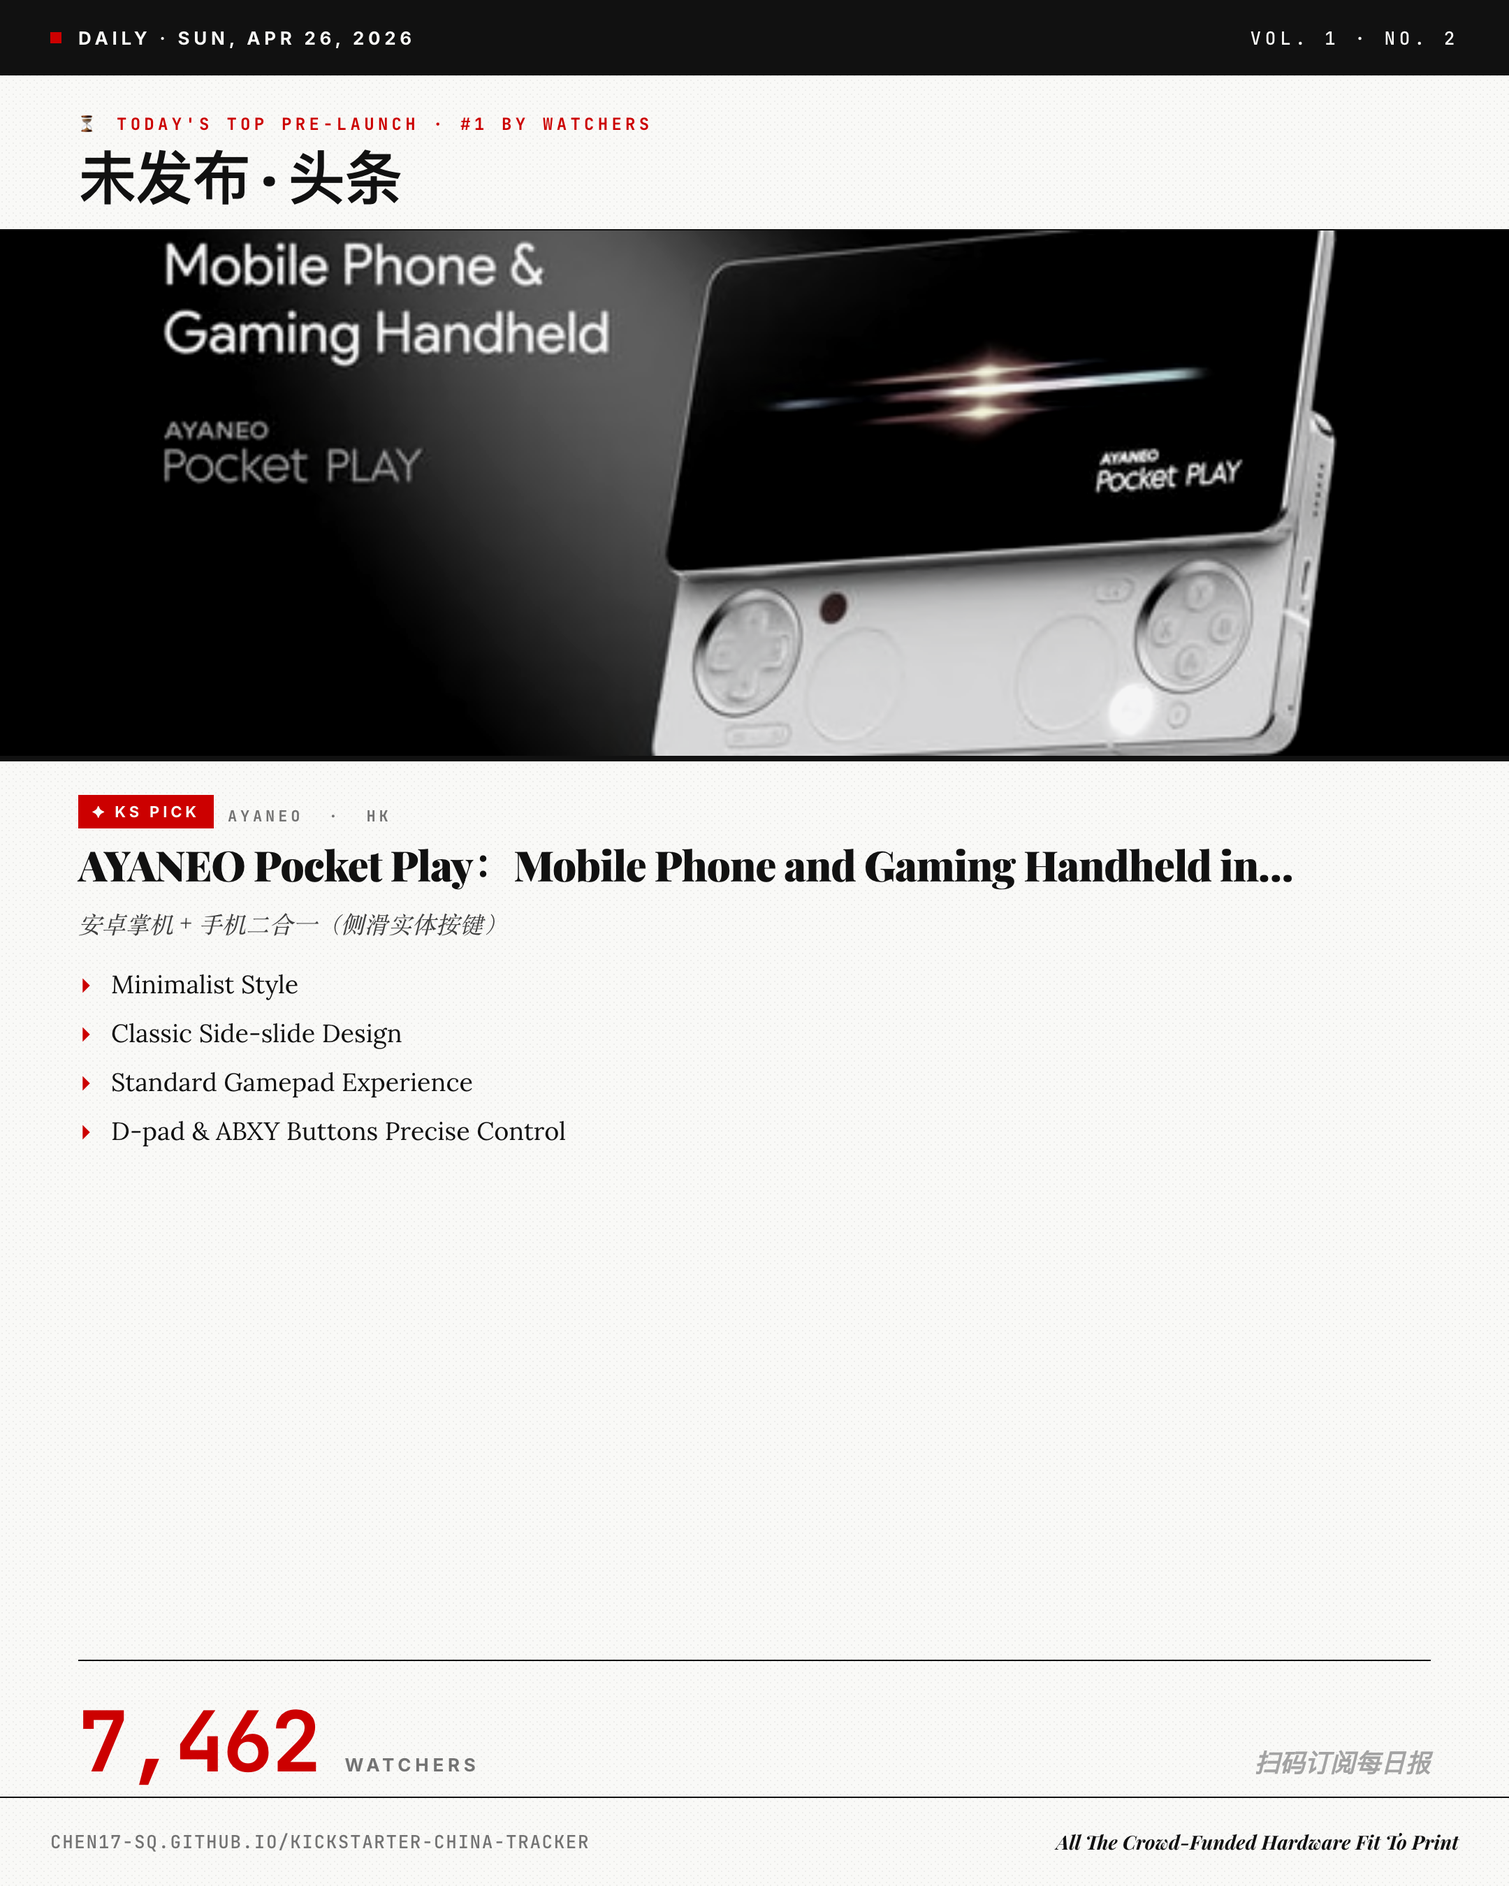
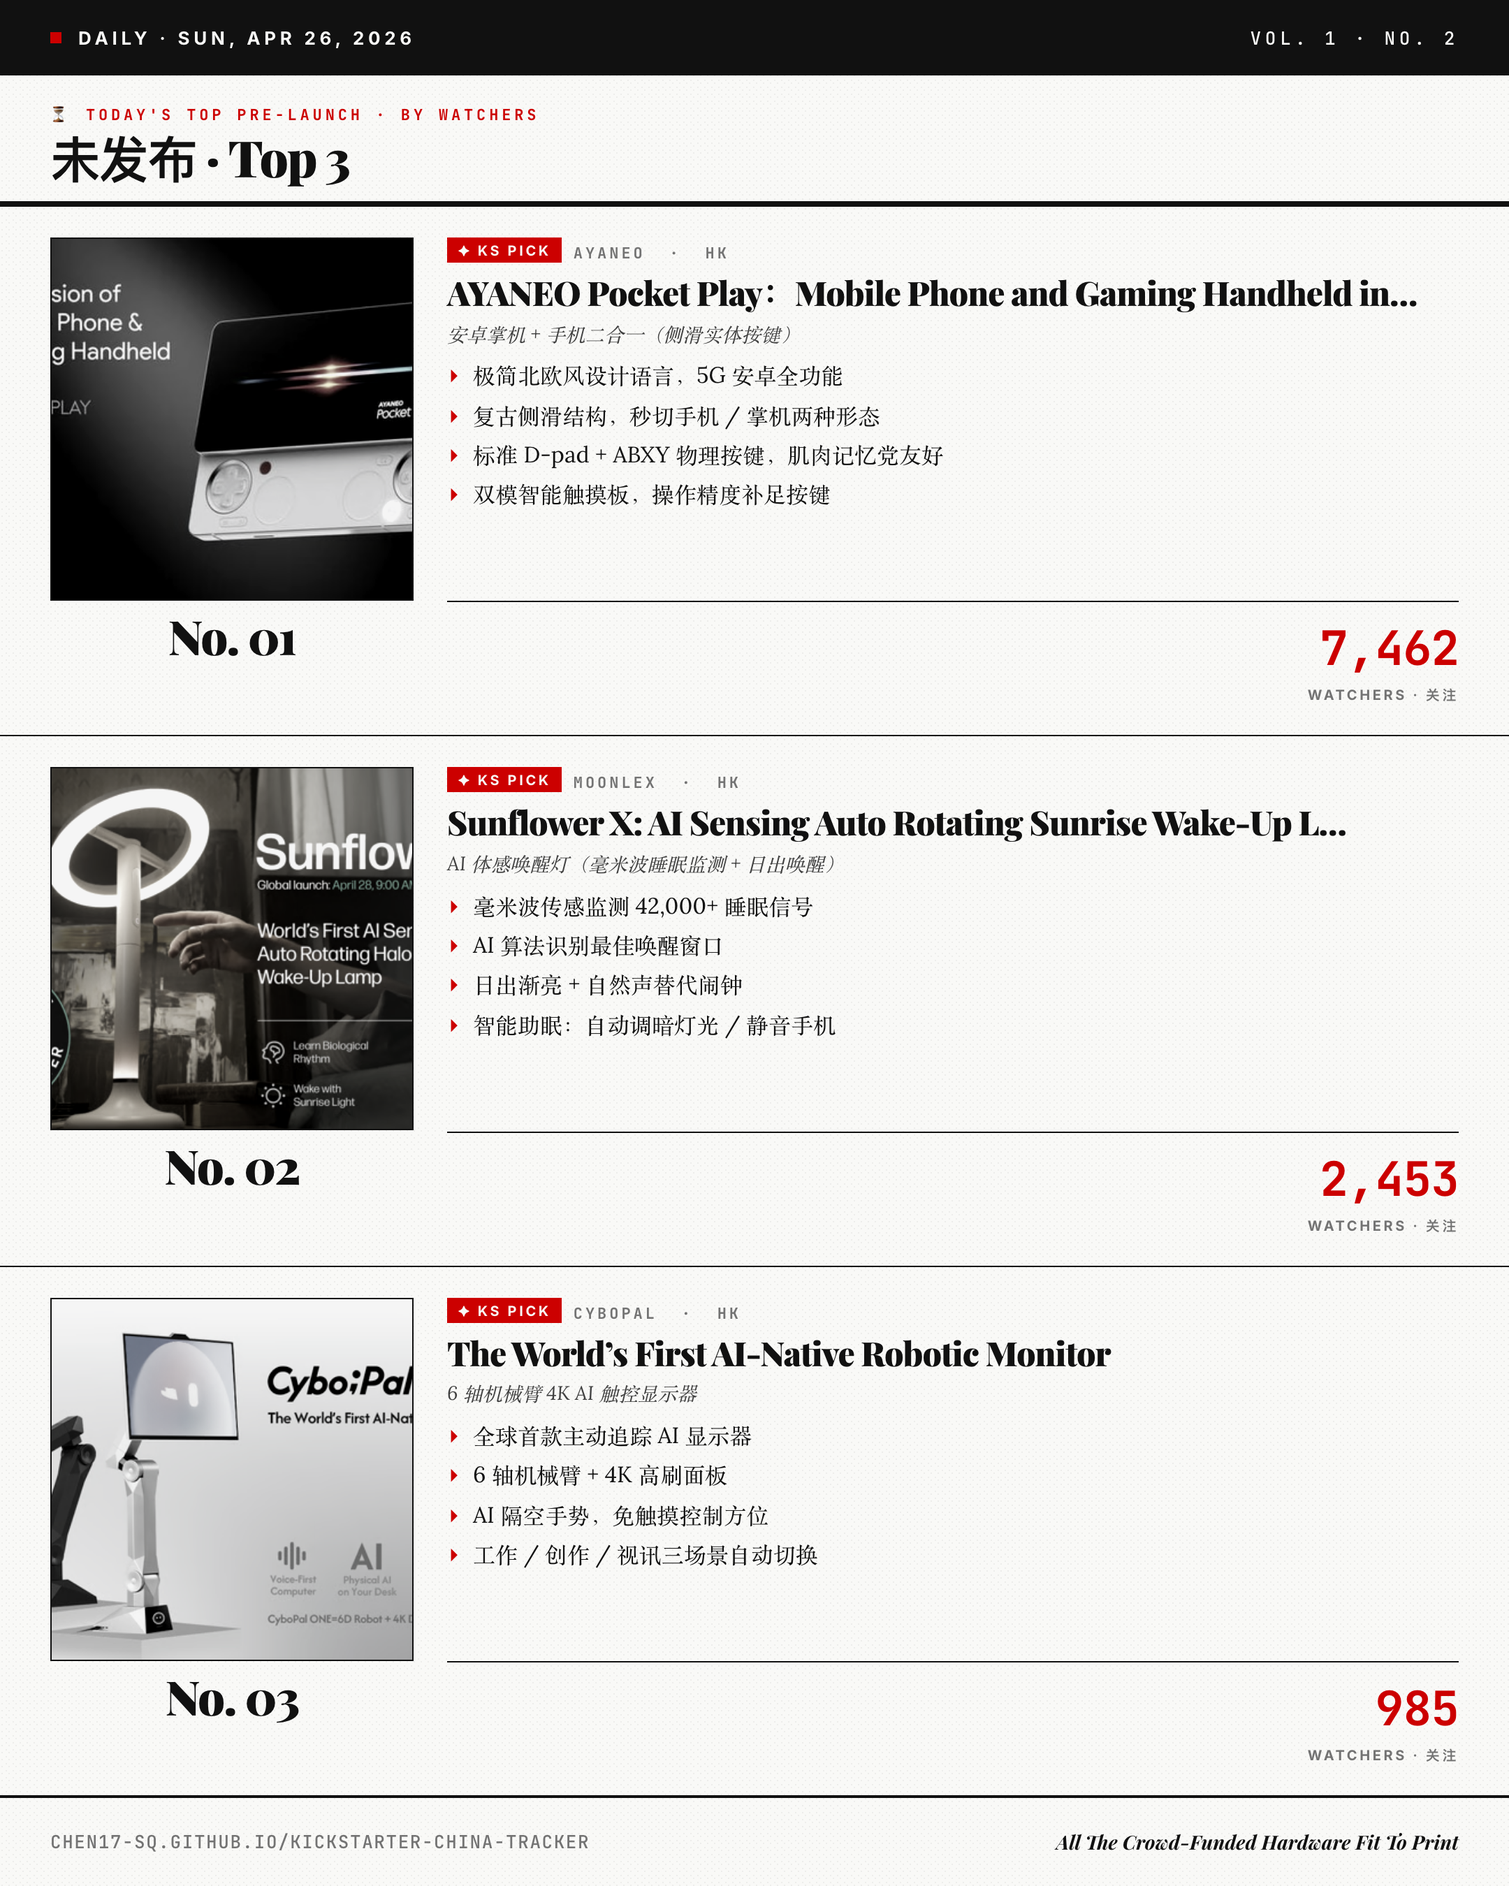
feat(social): top-3 detail slides — product image + 4 long-form Chinese highlights
User: '4 条产品亮点要长点啊，要有中文的; 然后每个赛道的 top3 都要有，同赛道可以放在一页'.

Slide 04 / 06 used to show ONE product (top-1) with image + 4 |-split
English bullets. Now each shows the full TOP 3 of its track, every product
with its own KS hero image and 4 hand-curated long-form Chinese highlights.

data/highlights_zh.json (NEW)
  12 projects × 4 highlights each = 48 curated bullets, 16-32 chars each.
  Schema: pathname → list[str]. Covers current top 3 prelaunch + top 3 live
  + 6 next-tier projects so future slug shifts still hit a curated entry.
  Examples (XGIMI):
    全球首款双虹膜光圈 4K 三色激光投影
    10,000:1 原生对比度，黑场不再发灰
    7000 ISO 流明，白天不拉窗帘也能看
    VRR 可变刷新率 + 抗 RBE，3D 游戏首选

scraper/social.py
  - load_highlights_zh() reads data/highlights_zh.json keyed by pathname.
  - slide_track_top3(d, kind) renders three product cards in one slide:
    * Header band: kicker + h2 (red for prelaunch, ink for live)
    * 3 rows of 1 product each, sized to fill remaining vertical space
  - _detail_row builds a single row:
    * Left column (260×260): KS hero image (grayscale .85 + contrast)
      with rank badge ('No. 01' Playfair 34 below)
    * Right column: brand·country mono line, Playfair 24 title,
      italic Lora blurb_zh, 4 ▸-bulleted Chinese highlights, big metric
      at bottom-right (red watcher count for prelaunch, USD for live)
  - Falls back to English |-split when a project isn't in highlights_zh
    (so newly-discovered projects degrade gracefully).
[…]

diff --git a/scraper/social.py b/scraper/social.py
@@ -32,6 +32,19 @@ from pathlib import Path
 REPO_ROOT = Path(__file__).resolve().parent.parent
 SOCIAL = REPO_ROOT / "site" / "social"
 PROJECTS = REPO_ROOT / "data" / "projects.json"
+HIGHLIGHTS_ZH = REPO_ROOT / "data" / "highlights_zh.json"
+
+
+def load_highlights_zh() -> dict[str, list[str]]:
+    """Load curated 4-bullet Chinese highlights keyed by KS pathname."""
+    if not HIGHLIGHTS_ZH.exists():
+        return {}
+    try:
+        raw = json.loads(HIGHLIGHTS_ZH.read_text(encoding="utf-8"))
+        return {k: v for k, v in raw.items()
+                if isinstance(v, list) and not k.startswith("_")}
+    except Exception:
+        return {}
 
 SLIDE_W, SLIDE_H = 1080, 1350
 
@@ -297,161 +310,138 @@ def _hero_image_block(image_url: str | None) -> str:
     </div>"""
 
 
-# ── Slide 04 · Pre-launch #1 PRODUCT DETAIL ─────────────────────
-def slide_prelaunch_feature(d: dict) -> str:
-    pre = sorted(
-        [p for p in d["prelaunch"]],
-        key=lambda x: (0 if x.get("project_we_love") else 1, -(int(x.get("followers") or 0))),
-    )
-    if not pre:
-        return _empty_section("⏳ PRELAUNCH · FEATURED", "暂无 prelaunch 项目")
-    p = pre[0]
+# ── Slides 04 / 06 · Track TOP 3 (3-up product detail) ─────────
+def _detail_row(rank: int, p: dict, *, kind: str, hl_map: dict) -> str:
+    """One product card row: image left, title + 4 Chinese highlights right."""
+    image_url = p.get("image_url") or ""
     title = _esc(_truncate(p.get("title") or "", 56))
     blurb_zh = _esc(p.get("blurb_zh") or "")
     brand = _esc(p.get("matched_brand_zh") or p.get("matched_brand") or p.get("creator_name") or "")
     country = _esc(p.get("country") or "")
-    star = (f'<span style="display:inline-block;background:{RED};color:{PAPER};'
-            f'font-family:Inter;font-size:11px;font-weight:700;letter-spacing:.22em;'
-            f'text-transform:uppercase;padding:5px 10px;margin-right:10px;vertical-align:3px">✦ KS PICK</span>'
+    star = ('<span style="display:inline-block;background:'+RED+';color:'+PAPER+';'
+            'font-family:Inter,sans-serif;font-size:10px;font-weight:700;'
+            'letter-spacing:.18em;text-transform:uppercase;'
+            'padding:3px 8px;margin-right:8px;vertical-align:2px">✦ KS PICK</span>'
            ) if p.get("project_we_love") else ""
 
-    highlights = _extract_highlights(p)
+    # Chinese highlights — fall back to English |-split when not curated
+    pathname = p.get("pathname")
+    highlights = hl_map.get(pathname) or _extract_highlights(p)
     bullets = "".join(
-        f"""<li style="display:flex;gap:14px;margin:10px 0;font-family:{{body_f}};
-            font-size:18px;line-height:1.4;color:{INK}">
-          <span style="color:{RED};font-weight:900;flex:none">▸</span>
-          <span>{_esc(h)}</span></li>""".replace("{body_f}", "'Lora','Songti SC',serif")
-        for h in highlights
-    )
-
-    return f"""
-    <div style="position:absolute;top:54px;left:0;right:0;bottom:64px;
-                display:flex;flex-direction:column">
-
-      <!-- Section header band -->
-      <div style="padding:24px 56px 18px;border-bottom:1px solid {INK}">
-        <div class="kicker mono" style="font-family:{('JetBrains Mono', 'monospace')[0]},monospace;font-size:12px;
-             font-weight:700;letter-spacing:.22em;text-transform:uppercase;color:{RED};margin-bottom:6px">
-          ⏳ TODAY'S TOP PRE-LAUNCH · #1 BY WATCHERS</div>
-        <h2 class="serif" style="font-family:'Playfair Display',serif;font-weight:900;
-            font-size:42px;letter-spacing:-1.2px;color:{INK};line-height:1">未发布 · 头条</h2>
-      </div>
-
-      <!-- Product hero image -->
-      {_hero_image_block(p.get("image_url"))}
-
-      <!-- Title + brand line -->
-      <div style="padding:24px 56px 0;flex:1;display:flex;flex-direction:column;justify-content:space-between">
-        <div>
-          <div class="mono" style="font-family:'JetBrains Mono',monospace;font-size:11px;font-weight:700;
-               color:{N500};letter-spacing:.22em;text-transform:uppercase;margin-bottom:10px">
-            {star}{brand} &nbsp;·&nbsp; {country}
-          </div>
-          <h3 class="serif" style="font-family:'Playfair Display',serif;font-size:30px;font-weight:900;
-              line-height:1.1;letter-spacing:-.6px;color:{INK};margin-bottom:14px">{title}</h3>
-          <div class="body" style="font-family:'Lora','Songti SC',serif;font-style:italic;
-               font-size:17px;color:{N700};line-height:1.4">{blurb_zh}</div>
-
-          <!-- Highlights -->
-          <ul style="list-style:none;padding:0;margin:18px 0 0">{bullets}</ul>
-        </div>
-
-        <!-- Big metric -->
-        <div style="border-top:1px solid {INK};padding-top:18px;display:flex;
-                    align-items:baseline;justify-content:space-between">
-          <div>
-            <span class="mono" style="font-family:'JetBrains Mono',monospace;font-size:60px;
-                  font-weight:700;color:{RED};letter-spacing:-1.5px">{fmt_int(p.get("followers"))}</span>
-            <span class="sans" style="font-family:'Inter',sans-serif;font-size:13px;font-weight:700;
-                  color:{N500};letter-spacing:.22em;text-transform:uppercase;margin-left:14px">Watchers</span>
-          </div>
-          <div class="serif" style="font-family:'Playfair Display',serif;font-size:18px;font-style:italic;
-               color:{N400}">扫码订阅每日报</div>
-        </div>
-      </div>
-    </div>"""
-
-
-# ── Slide 06 · Live #1 PRODUCT DETAIL ───────────────────────────
-def slide_live_feature(d: dict) -> str:
-    live = sorted([p for p in d["live"]], key=lambda x: -float(x.get("pledged_usd") or 0))
-    if not live:
-        return _empty_section("🔴 LIVE · FEATURED", "暂无 live 项目")
-    p = live[0]
-    title = _esc(_truncate(p.get("title") or "", 56))
-    blurb_zh = _esc(p.get("blurb_zh") or "")
-    brand = _esc(p.get("matched_brand_zh") or p.get("matched_brand") or p.get("creator_name") or "")
-    country = _esc(p.get("country") or "")
-    star = (f'<span style="display:inline-block;background:{RED};color:{PAPER};'
-            f'font-family:Inter;font-size:11px;font-weight:700;letter-spacing:.22em;'
-            f'text-transform:uppercase;padding:5px 10px;margin-right:10px;vertical-align:3px">✦ KS PICK</span>'
-           ) if p.get("project_we_love") else ""
-    pct = float(p.get("percent_funded") or 0)
-    pct_str = (f'{round(pct/100):,}× goal' if pct >= 10000 else
-               f'{round(pct):,}% funded' if pct >= 1000 else
-               f'{round(pct)}% funded')
-
-    highlights = _extract_highlights(p)
-    bullets = "".join(
-        f"""<li style="display:flex;gap:14px;margin:10px 0;font-family:'Lora','Songti SC',serif;
-            font-size:18px;line-height:1.4;color:{INK}">
-          <span style="color:{RED};font-weight:900;flex:none">▸</span>
+        f"""<li style="display:flex;gap:10px;margin:6px 0;
+            font-family:'Lora','Songti SC',serif;font-size:16px;line-height:1.4;color:{INK}">
+          <span style="color:{RED};font-weight:900;flex:none;font-family:'Inter',sans-serif">▸</span>
           <span>{_esc(h)}</span></li>"""
-        for h in highlights
+        for h in highlights[:4]
     )
+
+    if kind == "prelaunch":
+        big_value = fmt_int(p.get("followers"))
+        big_label = "Watchers · 关注"
+        big_color = RED
+    else:  # live
+        big_value = fmt_usd(p.get("pledged_usd"))
+        big_label = f'{fmt_int(p.get("backers"))} Backers'
+        big_color = INK
+
+    image_html = (
+        f'<img src="{_esc(image_url)}" style="width:100%;height:100%;'
+        f'object-fit:cover;display:block;'
+        f'filter:grayscale(0.85) contrast(1.1) brightness(.96)" alt=""/>'
+        if image_url else
+        f'<div style="width:100%;height:100%;background:{MUTED};display:flex;'
+        f'align-items:center;justify-content:center;font-family:Lora,serif;'
+        f'font-style:italic;color:{N400}">No image</div>'
+    )
+
+    return f"""
+    <div style="display:flex;gap:24px;padding:22px 36px;border-bottom:1px solid {INK};
+                flex:1;min-height:0;align-items:stretch">
+
+      <!-- Left: image with rank badge below -->
+      <div style="flex:none;display:flex;flex-direction:column;gap:8px">
+        <div style="width:260px;height:260px;overflow:hidden;background:#000;
+                    border:1px solid {INK}">{image_html}</div>
+        <div style="font-family:'Playfair Display',serif;font-size:34px;font-weight:900;
+             color:{INK};letter-spacing:-1px;line-height:1;text-align:center">No. {rank:02d}</div>
+      </div>
+
+      <!-- Right: brand line + title + 4 bullets + big metric -->
+      <div style="flex:1;min-width:0;display:flex;flex-direction:column;justify-content:space-between">
+        <div>
+          <div style="font-family:'JetBrains Mono',monospace;font-size:11px;font-weight:700;
+               color:{N500};letter-spacing:.18em;text-transform:uppercase;margin-bottom:8px">
+            {star}{brand} &nbsp;·&nbsp; {country}
+          </div>
+          <h3 style="font-family:'Playfair Display',serif;font-size:24px;font-weight:900;
+              line-height:1.15;letter-spacing:-.5px;color:{INK};margin:0 0 6px">{title}</h3>
+          <div style="font-family:'Lora','Songti SC',serif;font-style:italic;font-size:14px;
+               color:{N700};line-height:1.4;margin-bottom:8px">{blurb_zh}</div>
+          <ul style="list-style:none;padding:0;margin:0">{bullets}</ul>
+        </div>
+
+        <!-- Bottom-right metric -->
+        <div style="text-align:right;border-top:1px solid {INK};padding-top:10px;margin-top:10px">
+          <span style="font-family:'JetBrains Mono',monospace;font-size:34px;font-weight:700;
+                color:{big_color};letter-spacing:-.5px">{big_value}</span>
+          <div style="font-family:'Inter',sans-serif;font-size:10px;font-weight:700;color:{N500};
+               letter-spacing:.18em;text-transform:uppercase;margin-top:4px">{big_label}</div>
+        </div>
+      </div>
+    </div>"""
+
+
+def slide_track_top3(d: dict, *, kind: str) -> str:
+    """Top 3 of a single track on one slide."""
+    if kind == "prelaunch":
+        items = sorted(
+            d["prelaunch"],
+            key=lambda x: (0 if x.get("project_we_love") else 1, -(int(x.get("followers") or 0))),
+        )[:3]
+        kicker = "⏳ TODAY'S TOP PRE-LAUNCH · BY WATCHERS"
+        h2 = "未发布 · Top 3"
+        kicker_color = RED
+    else:  # live
+        items = sorted(d["live"], key=lambda x: -float(x.get("pledged_usd") or 0))[:3]
+        kicker = "🔴 TODAY'S TOP LIVE · BY USD RAISED"
+        h2 = "在筹中 · Top 3"
+        kicker_color = INK
+
+    if not items:
+        return _empty_section(kicker, "暂无项目")
+
+    hl_map = load_highlights_zh()
+    rows = "".join(_detail_row(i + 1, p, kind=kind, hl_map=hl_map) for i, p in enumerate(items))
 
     return f"""
     <div style="position:absolute;top:54px;left:0;right:0;bottom:64px;
                 display:flex;flex-direction:column">
-
-      <div style="padding:24px 56px 18px;border-bottom:1px solid {INK}">
-        <div class="kicker mono" style="font-family:'JetBrains Mono',monospace;font-size:12px;
-             font-weight:700;letter-spacing:.22em;text-transform:uppercase;color:{INK};margin-bottom:6px">
-          🔴 TODAY'S TOP LIVE · #1 BY USD RAISED</div>
-        <h2 class="serif" style="font-family:'Playfair Display',serif;font-weight:900;
-            font-size:42px;letter-spacing:-1.2px;color:{INK};line-height:1">在筹中 · 头条</h2>
+      <!-- Header band -->
+      <div style="padding:18px 36px 14px;border-bottom:4px solid {INK};flex:none">
+        <div style="font-family:'JetBrains Mono',monospace;font-size:11px;font-weight:700;
+             letter-spacing:.22em;text-transform:uppercase;color:{kicker_color};margin-bottom:4px">
+          {kicker}</div>
+        <h2 style="font-family:'Playfair Display',serif;font-weight:900;font-size:36px;
+            letter-spacing:-1.2px;color:{INK};line-height:1;margin:0">{h2}</h2>
       </div>
 
-      {_hero_image_block(p.get("image_url"))}
-
-      <div style="padding:24px 56px 0;flex:1;display:flex;flex-direction:column;justify-content:space-between">
-        <div>
-          <div class="mono" style="font-family:'JetBrains Mono',monospace;font-size:11px;font-weight:700;
-               color:{N500};letter-spacing:.22em;text-transform:uppercase;margin-bottom:10px">
-            {star}{brand} &nbsp;·&nbsp; {country}
-          </div>
-          <h3 class="serif" style="font-family:'Playfair Display',serif;font-size:30px;font-weight:900;
-              line-height:1.1;letter-spacing:-.6px;color:{INK};margin-bottom:14px">{title}</h3>
-          <div class="body" style="font-family:'Lora','Songti SC',serif;font-style:italic;
-               font-size:17px;color:{N700};line-height:1.4">{blurb_zh}</div>
-
-          <ul style="list-style:none;padding:0;margin:18px 0 0">{bullets}</ul>
-        </div>
-
-        <!-- Live KPIs row -->
-        <div style="border-top:1px solid {INK};padding-top:18px;display:flex;align-items:baseline;
-                    gap:34px;flex-wrap:wrap">
-          <div>
-            <span class="mono" style="font-family:'JetBrains Mono',monospace;font-size:54px;
-                  font-weight:700;color:{INK};letter-spacing:-1.5px">{fmt_usd(p.get("pledged_usd"))}</span>
-            <div class="sans" style="font-family:'Inter',sans-serif;font-size:11px;font-weight:700;
-                 color:{N500};letter-spacing:.22em;text-transform:uppercase;margin-top:4px">Pledged</div>
-          </div>
-          <div>
-            <span class="mono" style="font-family:'JetBrains Mono',monospace;font-size:30px;
-                  font-weight:700;color:{INK};letter-spacing:-.5px">{fmt_int(p.get("backers"))}</span>
-            <div class="sans" style="font-family:'Inter',sans-serif;font-size:11px;font-weight:700;
-                 color:{N500};letter-spacing:.22em;text-transform:uppercase;margin-top:4px">Backers</div>
-          </div>
-          <div>
-            <span class="mono" style="font-family:'JetBrains Mono',monospace;font-size:30px;
-                  font-weight:700;color:{RED};letter-spacing:-.5px">{pct_str}</span>
-            <div class="sans" style="font-family:'Inter',sans-serif;font-size:11px;font-weight:700;
-                 color:{N500};letter-spacing:.22em;text-transform:uppercase;margin-top:4px">Funded</div>
-          </div>
-        </div>
+      <!-- 3 product rows fill remaining space -->
+      <div style="flex:1;display:flex;flex-direction:column;min-height:0">
+        {rows}
       </div>
     </div>"""
+
+
+# Backwards-compat aliases — generate_carousel() calls slide_track_top3 directly,
+# but legacy imports might still reference these.
+def slide_prelaunch_feature(d: dict) -> str:
+    return slide_track_top3(d, kind="prelaunch")
+
+
+def slide_live_feature(d: dict) -> str:
+    return slide_track_top3(d, kind="live")
+
+
 
 
 # ── Slide 05 / 07 / 08 · Top 5 Lists ────────────────────────────
